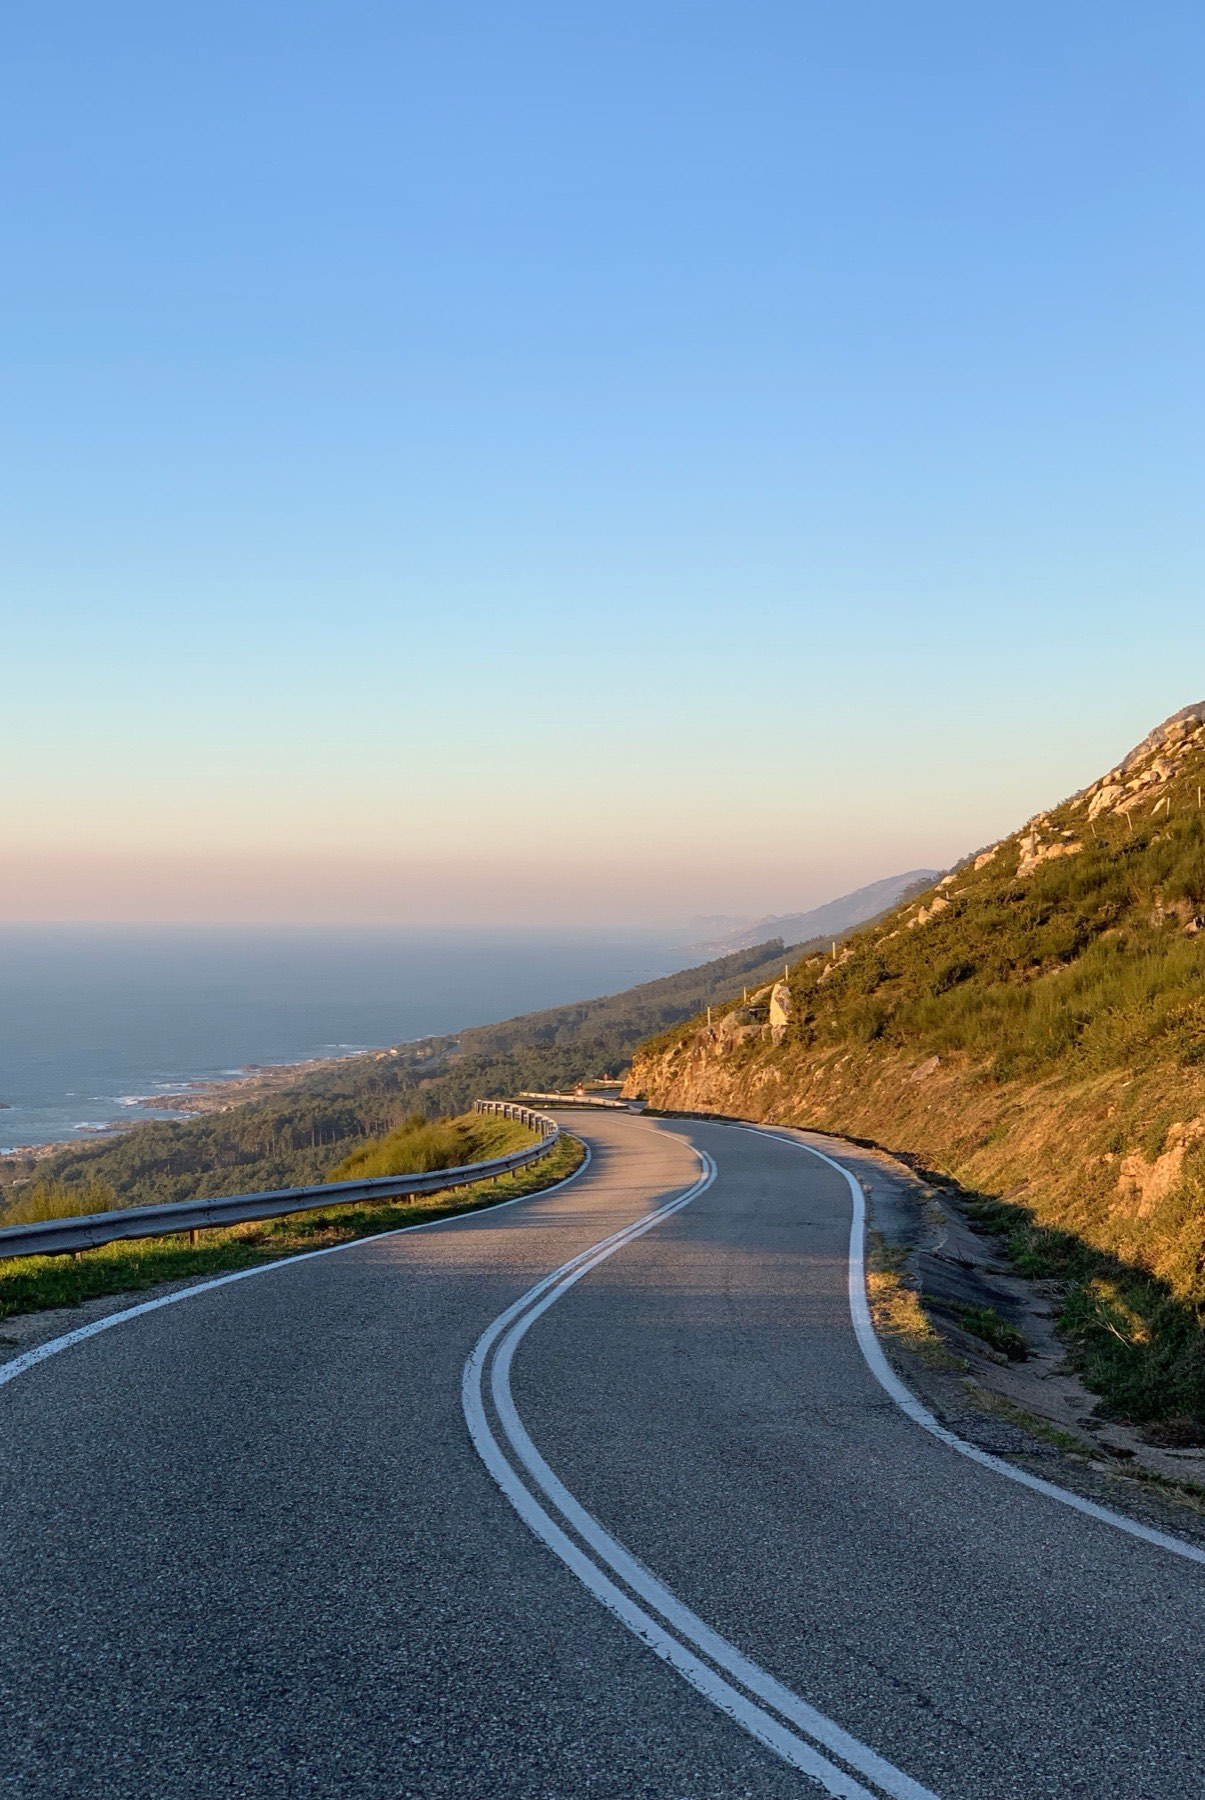
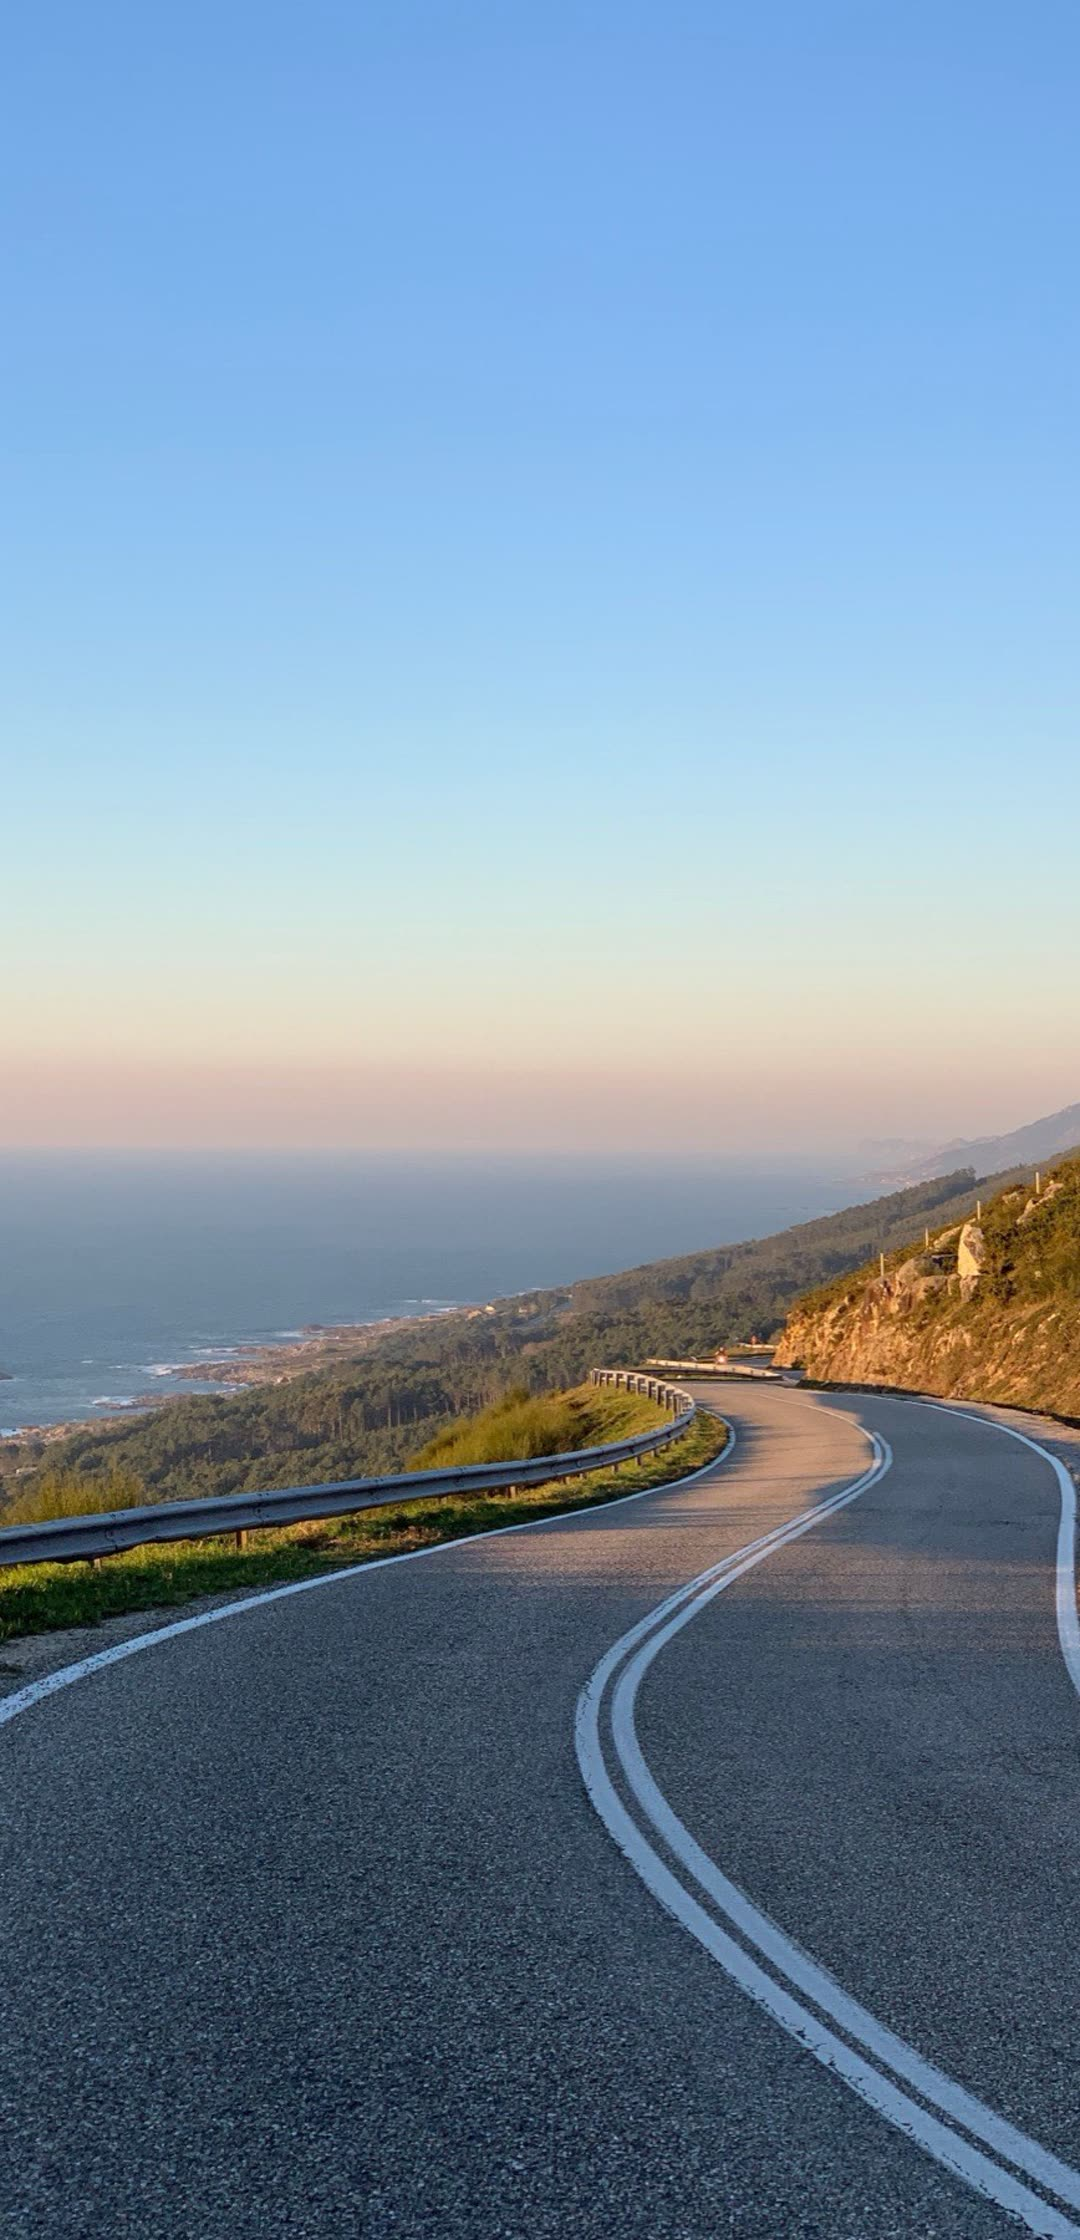
Swap Mountain (Pexels) & Tunnel (Unsplash) art; recompose Coastal
- Mountain Pass FM -> licensed Pexels alpine peak photo
- Tunnel FM -> licensed Unsplash motion-blur tunnel photo
- Coastal FM -> re-cropped ~28% off the right hillside to lean into
  the ocean (more sea, road still sweeps through)
Credits updated: 7 of 8 cleared; only coastal's source still to confirm.

Changed region(s): [[0.0, 0.3733, 1.0, 1.0]]

diff --git a/assets/stations/IMAGE-CREDITS.md b/assets/stations/IMAGE-CREDITS.md
@@ -68,28 +68,29 @@ Stock / Shutterstock (paid), or AI from a tool whose terms **grant commercial us
 - Status: ✅ OK / cleared
 
 ### ✅ mountain.jpg — "Mountain Pass FM"
-- In frame: snowy mountain road, guardrail. No cars/brands.
+- In frame: snow-capped alpine peak above a dusk road; a distant oncoming car (small, no visible badge/plate).
 - Type: real photograph.
-- Source: Unsplash or Pexels free image (per owner, 2026-07-08) — _pin exact URL when convenient_.
-- License: Unsplash License / Pexels License (both free commercial use).
-- Risk: **Low** — free-licensed source; no trademarks in frame.
-- Status: ✅ OK / cleared (exact source URL still worth recording)
+- Source: Pexels — igorsix, photo id 31900784 (file pexels-igorsix-31900784.jpg, 2026-07-08).
+- License: **Pexels License** (free commercial use, no attribution required).
+- Risk: **Low** — licensed source; no prominent trademarks.
+- Status: ✅ OK / cleared
 
 ### 🟡 coastal.jpg — "Coastal FM"
-- In frame: winding coastal road at dusk. No cars/brands.
+- In frame: winding coastal road at dusk, ocean on the left. No cars/brands. Recomposed 2026-07-08
+  (cropped ~28% off the right hillside to lean into the ocean).
 - Type (best guess): real photograph.
-- Source: _TO CONFIRM_ (Unsplash/Pexels? or Pinterest?)
+- Source: _STILL TO CONFIRM_ (Unsplash/Pexels? or Pinterest?)
 - License: _TO CONFIRM_
 - Risk: **Low** on trademarks — but if it came from Pinterest it is **uncleared copyright**.
-- Status: ⚠ CONFIRM SOURCE
+- Status: ⚠ CONFIRM SOURCE — the only remaining un-sourced image.
 
-### 🟡 tunnel.jpg — "Tunnel FM"
-- In frame: motion-blur road tunnel, distant unidentifiable car.
-- Type (best guess): real photograph.
-- Source: _TO CONFIRM_
-- License: _TO CONFIRM_
-- Risk: **Low** on trademarks — confirm it's a licensed/stock photo, not Pinterest.
-- Status: ⚠ CONFIRM SOURCE
+### ✅ tunnel.jpg — "Tunnel FM"
+- In frame: motion-blur drive through a lit road tunnel, distant unidentifiable car.
+- Type: real photograph.
+- Source: Unsplash — photo-1766083639765-1c9462495e68 (2026-07-08).
+- License: **Unsplash License** (free commercial use, no attribution required).
+- Risk: **Low** — licensed source; nothing identifiable in frame.
+- Status: ✅ OK / cleared
 
 ### (disabled) sunset-motion.webp
 - Old Sunset FM motion clip, currently unused. Same clearance rule applies if re-enabled.
@@ -98,11 +99,10 @@ Stock / Shutterstock (paid), or AI from a tool whose terms **grant commercial us
 ---
 
 ## Replace-first priority
-1. Confirm sources for **coastal.jpg** / **tunnel.jpg** (are these off Pinterest?) 🟡
+1. Confirm the source of **coastal.jpg** (Unsplash/Pexels or Pinterest?) — the ONLY image left to clear. 🟡
 
-**Cleared so far:** rain-drive, after-midnight, cars-coffee, sunset, night-run (Unsplash) + mountain
-(Unsplash/Pexels free, per owner) — all 2026-07-08. ✅
-Only coastal.jpg and tunnel.jpg still need their source confirmed. No 🔴 high-risk images remain.
+**Cleared so far:** rain-drive, after-midnight, cars-coffee, sunset, night-run, tunnel (Unsplash) +
+mountain (Pexels) — all 2026-07-08. ✅  7 of 8 cleared. No 🔴 high-risk images remain.
 
 ## Notes
 - Custom stations created by users bring their own art — out of scope here.
